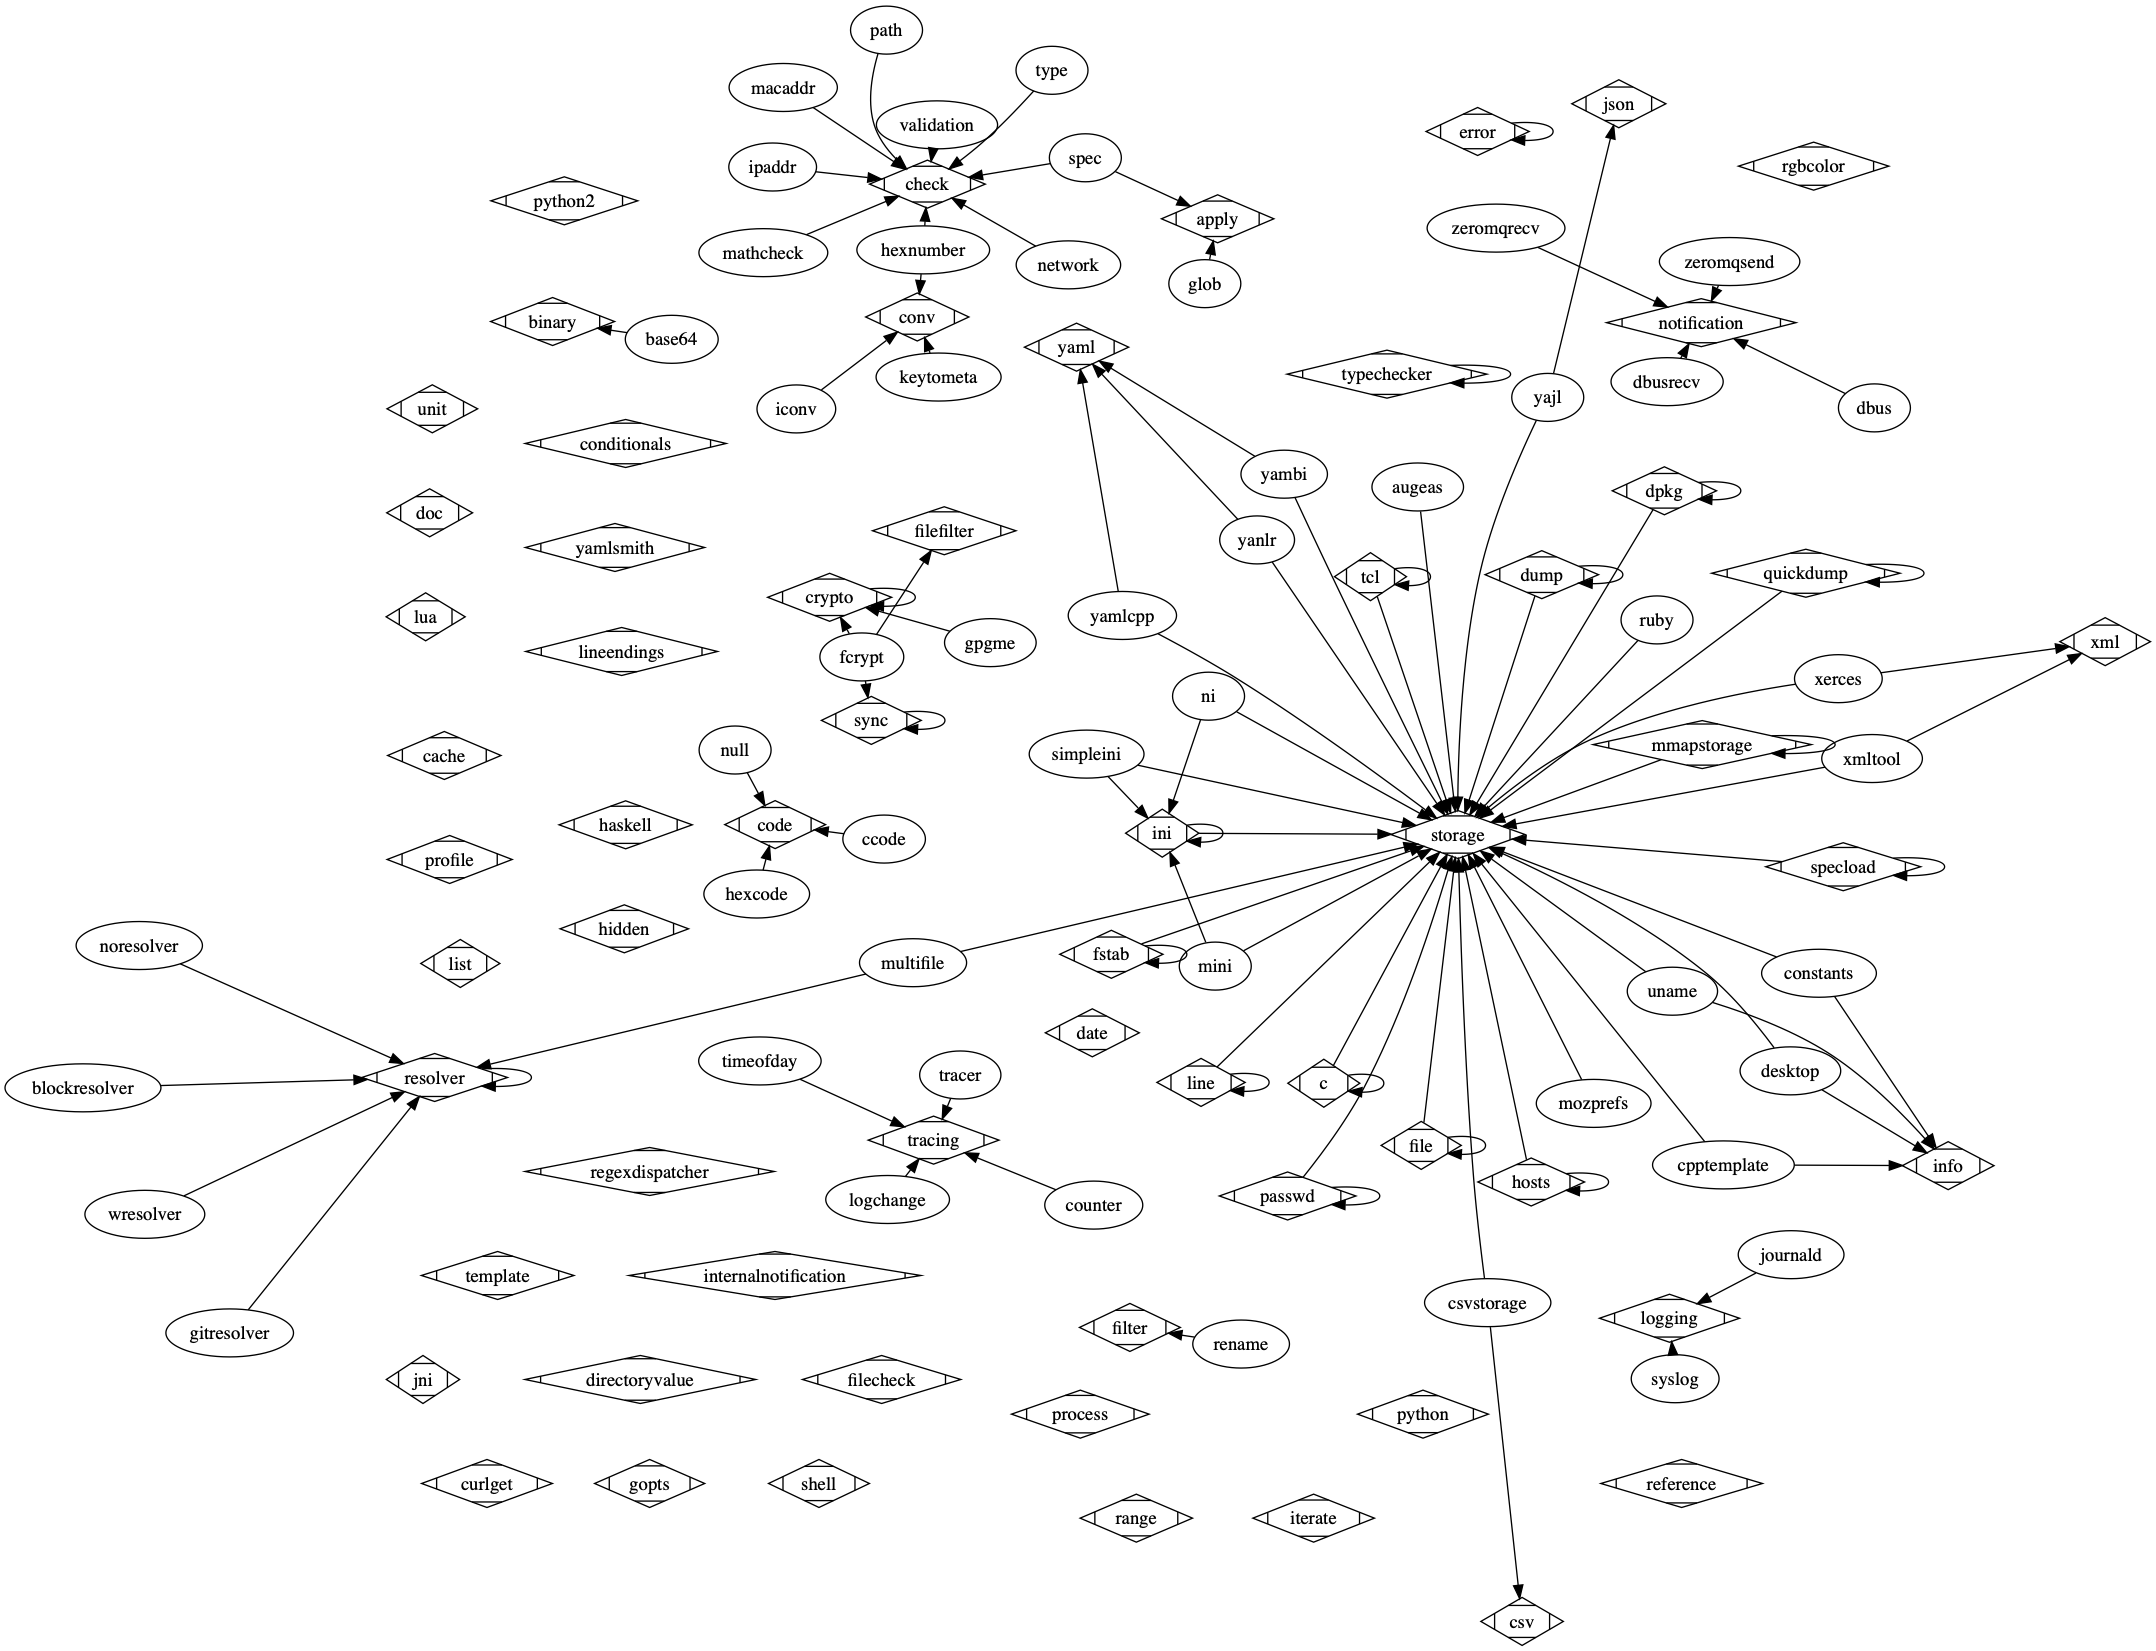
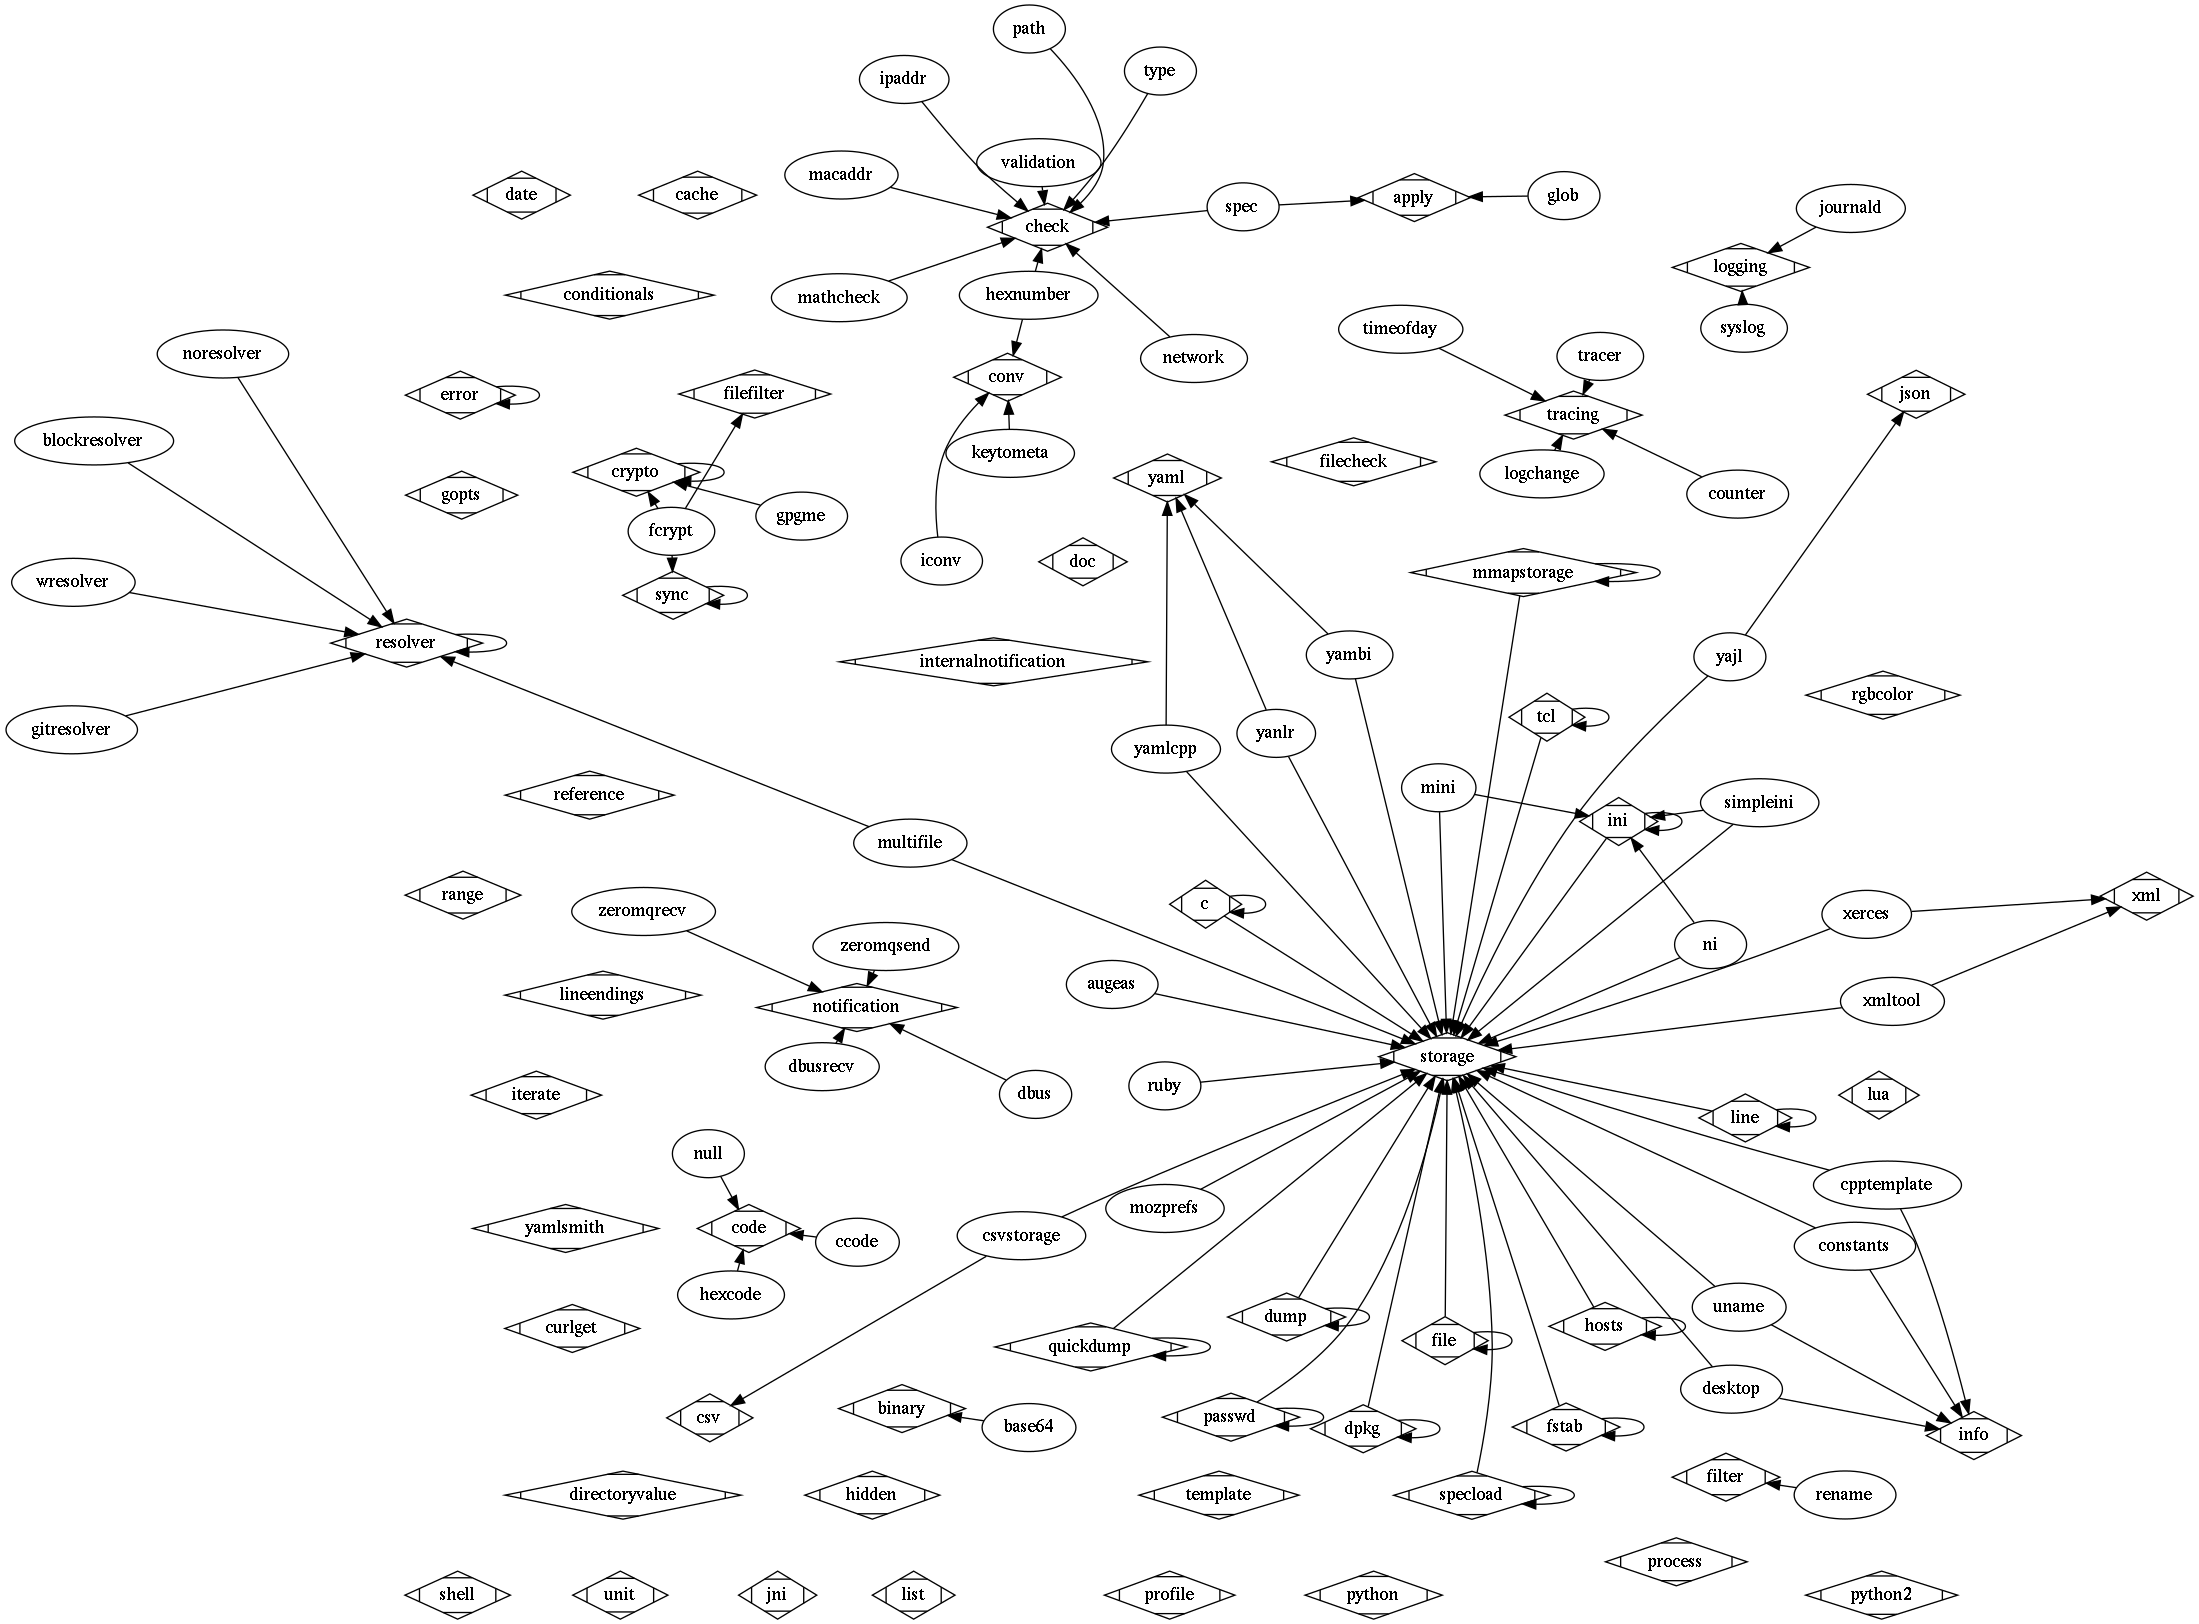
haskell: remove more deps, redraw plugins

diff --git a/doc/news/2018-08-18_0.8.24.md b/doc/news/2018-08-18_0.8.24.md
@@ -212,7 +212,7 @@ Thanks to Michael Zronek and Vanessa Kos.
 
 - An issue when building Haskell plugins with a cached sandbox is fixed in case
   a Haskell library bundled with Elektra gets changed. _(Armin Wurzinger)_
-- The script that generates the list of haskell dependencies now also works on
+- The script that generates the list of Haskell dependencies now also works on
   ghc8.0.1 and older cabal versions. Furthermore one can specify the build directory as
   a parameter if it is not located within the source directory. _(Armin Wurzinger)_
 
@@ -409,7 +409,7 @@ Thanks to Michael Zronek and Vanessa Kos.
 
 - The library [`pluginprocess`](http://master.libelektra.org/src/libs/pluginprocess) that is used to
   execute plugins run inside own processes has been improved. This is useful as some plugins like
-  haskell-based plugins or [`python`](http://libelektra.org/plugins/python) can only be started once
+  Haskell-based plugins or [`python`](http://libelektra.org/plugins/python) can only be started once
   inside a single process, while libelektra may call a plugin several times. The library now uses an
   improved communication protocol that separates between pluginprocess-related data and keysets
   passed to plugins. This avoids any possible name clashes between keys used by a plugin and keys
@@ -554,7 +554,7 @@ Another important change is:
 - The build system no longer installs Haskell dependencies from hackage by itself, instead
   this has to be done beforehand like it is the case with all other dependencies. The main
   reason is that the build servers shouldn't compile the dependencies over and over again,
-  only if something changes. See the [README](https://www.libelektra.org/bindings/haskell). _(Armin Wurzinger)_
+  only if something changes. _(Armin Wurzinger)_
 - Plugins can be specified to be only built for `BUILD_SHARED` builds, but to be excluded
   from any `BUILD_FULL` or `BUILD_STATIC` builds using the new optional argument `ONLY_SHARED`
   for our cmake macro `add_plugin`. This way `BUILD_SHARED` can be combined with the other
@@ -645,7 +645,7 @@ Another important change is:
   - builds all (applicable) bindings by default again, and
   - checks the formatting of CMake code via [`cmake-format`][]
     . _(René Schwaiger)_
-- Some cache issues on the Travis build job for cached haskell sandboxes have been resolved. _(Armin Wurzinger)_
+- Some cache issues on the Travis build job for cached Haskell sandboxes have been resolved. _(Armin Wurzinger)_
 - Travis caches downloaded Homebrew packages to improve the reliability of macOS build jobs. _(René Schwaiger)_
 - Travis is now using Xcode 9.4.1 on macOS 10.13 for most macOS build jobs. _(Mihael Pranjić)_
 - We added a unique name to each build job, so you can see quickly which configuration caused problems. _(René Schwaiger)_

diff --git a/doc/news/2018-03-27_0.8.22.md b/doc/news/2018-03-27_0.8.22.md
@@ -160,14 +160,14 @@ We added even more functionality, which could not make it to the highlights:
 - Elektra is now part of the official [Homebrew repository](http://formulae.brew.sh/formula/elektra). We still provide a
   [tap](http://github.com/ElektraInitiative/homebrew-elektra), if you want to install Elektra together with plugins or bindings that require
   additional libraries.
-- The building and linking of the haskell bindings and haskell plugins has been
+- The building and linking of the Haskell bindings and Haskell plugins has been
   [greatly improved](https://github.com/ElektraInitiative/libelektra/pull/1698).
 - The invoke library can now [report errors](https://github.com/ElektraInitiative/libelektra/pull/1801) upon opening/closing a plugin,
   thanks to Armin Wurzinger.
 - The [YAML CPP plugin](https://www.libelektra.org/plugins/yamlcpp) does not require [Boost](http://www.boost.org) anymore, if you
   installed [yaml-cpp 0.6](https://github.com/jbeder/yaml-cpp/releases/tag/yaml-cpp-0.6.0).
 - Improved colored output in `kdb` tool.
-- We added two build jobs: docker and [haskell](https://build.libelektra.org/job/elektra-haskell/).
+- We added two build jobs: docker and haskell.
   Thanks to Bernhard Denner and Armin Wurzinger.
 - [YAML CPP](https://www.libelektra.org/plugins/yamlcpp) does not write binary data to a config file, if you forget to load the [Base64 plugin](https://www.libelektra.org/plugins/base64).
 - [YAML CPP](https://www.libelektra.org/plugins/yamlcpp) now encodes empty binary keys as NULL values (`~`), and also adds the meta key `binary` for such values automatically.
@@ -269,7 +269,7 @@ Many problems were resolved with the following fixes:
 - `kdb global-umount` also removed other mountpoints
 - We fixed [internal inconsistency](https://github.com/ElektraInitiative/libelektra/pull/1761) in the CMake code of the [Augeas plugin](https://www.libelektra.org/plugins/augeas)
 - We fixed the [haskell bindings and plugins on Debian Stretch](https://github.com/ElektraInitiative/libelektra/pull/1787)
-  and added a [new build server job](https://build.libelektra.org/job/elektra-haskell/) to test that in the future.
+  and added a new build server job to test that in the future.
 - Cleanup in list plugin, thanks to Thomas Wahringer
 - The Shell Recorder now exports and imports the root of a mountpoint instead of the mountpoint itself. This change makes sure that Shell
   Recorder test do not change the configuration directly below the specified mountpoint.
